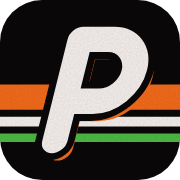
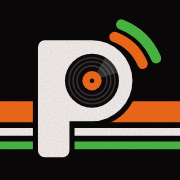
errores de espacios, tutorial mejorado, link facebook

diff --git a/public/index.html b/public/index.html
@@ -202,7 +202,7 @@
     <div class="seccion-titulo" id="titulo-viene"><h2>Lo que viene</h2><span onclick="ir('explorar')">Ver todas</span></div>
     <div class="lista-vertical" id="lista-viene" style="padding-bottom:26px; min-height:0;"></div>
     <footer class="pie-legal"><b class="notranslate" translate="no">PARTAZY</b>
-      <a class="pie-ig" href="https://www.instagram.com/partazy/" target="_blank" rel="noopener noreferrer" aria-label="PARTAZY en Instagram"><svg viewBox="0 0 24 24" fill="none" stroke="currentColor" stroke-width="2" aria-hidden="true"><rect x="3" y="3" width="18" height="18" rx="5"/><circle cx="12" cy="12" r="4"/><circle cx="17.5" cy="6.5" r="1" fill="currentColor" stroke="none"/></svg><span class="notranslate" translate="no">@partazy</span></a>
+      <div class="pie-redes"><a class="pie-ig" href="https://www.instagram.com/partazy/" target="_blank" rel="noopener noreferrer" aria-label="PARTAZY en Instagram"><svg viewBox="0 0 24 24" fill="none" stroke="currentColor" stroke-width="2" aria-hidden="true"><rect x="3" y="3" width="18" height="18" rx="5"/><circle cx="12" cy="12" r="4"/><circle cx="17.5" cy="6.5" r="1" fill="currentColor" stroke="none"/></svg><span class="notranslate" translate="no">@partazy</span></a><a class="pie-ig pie-fb" href="https://www.facebook.com/share/1EkgZmHUXT/" target="_blank" rel="noopener noreferrer" aria-label="PARTAZY en Facebook"><svg viewBox="0 0 24 24" fill="currentColor" aria-hidden="true"><path d="M13.5 21v-7.5h2.6l.4-3h-3V8.6c0-.9.3-1.5 1.5-1.5h1.6V4.4c-.3 0-1.2-.1-2.3-.1-2.3 0-3.8 1.4-3.8 3.9v2.3H7.9v3h2.6V21z"/></svg><span>Facebook</span></a></div>
       <div class="links"><button onclick="abrirTutorial()">Cómo usar Partazy</button><button onclick="abrirAyuda()">Ayuda</button><button onclick="abrirReferencias()">Colores</button><button onclick="verNormas()">Normas de la comunidad</button><button onclick="abrirTerminos()">Términos y condiciones</button><button onclick="abrirPrivacidad()">Privacidad</button></div>
       <div class="idiomas notranslate" translate="no" role="group" aria-label="Idioma"><button data-idioma="es">Español</button><button data-idioma="en">English</button><button data-idioma="pt">Português</button></div>
       <div>© <span class="anio-actual">2026</span> PARTAZY · Todos los derechos reservados.</div>
@@ -482,7 +482,7 @@ Ivo Paz +1"></textarea>
         <button class="btn btn-secundario" onclick="abrirMenuPerfil()"><svg width="16" height="16" viewBox="0 0 24 24" fill="none" stroke="currentColor" stroke-width="2.2" stroke-linecap="round" style="margin-right:6px;"><path d="M4 7h16M4 12h16M4 17h16"/></svg>Más opciones</button>
       </div>
       <div><footer class="pie-legal"><b class="notranslate" translate="no">PARTAZY</b>
-      <a class="pie-ig" href="https://www.instagram.com/partazy/" target="_blank" rel="noopener noreferrer" aria-label="PARTAZY en Instagram"><svg viewBox="0 0 24 24" fill="none" stroke="currentColor" stroke-width="2" aria-hidden="true"><rect x="3" y="3" width="18" height="18" rx="5"/><circle cx="12" cy="12" r="4"/><circle cx="17.5" cy="6.5" r="1" fill="currentColor" stroke="none"/></svg><span class="notranslate" translate="no">@partazy</span></a>
+      <div class="pie-redes"><a class="pie-ig" href="https://www.instagram.com/partazy/" target="_blank" rel="noopener noreferrer" aria-label="PARTAZY en Instagram"><svg viewBox="0 0 24 24" fill="none" stroke="currentColor" stroke-width="2" aria-hidden="true"><rect x="3" y="3" width="18" height="18" rx="5"/><circle cx="12" cy="12" r="4"/><circle cx="17.5" cy="6.5" r="1" fill="currentColor" stroke="none"/></svg><span class="notranslate" translate="no">@partazy</span></a><a class="pie-ig pie-fb" href="https://www.facebook.com/share/1EkgZmHUXT/" target="_blank" rel="noopener noreferrer" aria-label="PARTAZY en Facebook"><svg viewBox="0 0 24 24" fill="currentColor" aria-hidden="true"><path d="M13.5 21v-7.5h2.6l.4-3h-3V8.6c0-.9.3-1.5 1.5-1.5h1.6V4.4c-.3 0-1.2-.1-2.3-.1-2.3 0-3.8 1.4-3.8 3.9v2.3H7.9v3h2.6V21z"/></svg><span>Facebook</span></a></div>
       <div class="links"><button onclick="abrirTutorial()">Cómo usar Partazy</button><button onclick="abrirAyuda()">Ayuda</button><button onclick="abrirReferencias()">Colores</button><button onclick="verNormas()">Normas de la comunidad</button><button onclick="abrirTerminos()">Términos y condiciones</button><button onclick="abrirPrivacidad()">Privacidad</button></div>
       <div class="idiomas notranslate" translate="no" role="group" aria-label="Idioma"><button data-idioma="es">Español</button><button data-idioma="en">English</button><button data-idioma="pt">Português</button></div>
       <div>© <span class="anio-actual">2026</span> PARTAZY · Todos los derechos reservados.</div>
@@ -692,7 +692,7 @@ Ivo Paz +1"></textarea>
     </form>
     <div style="padding:0 20px 28px;"><button class="btn btn-secundario" onclick="abrirPrivacidad()">Política de privacidad</button></div>
     <footer class="pie-legal"><b class="notranslate" translate="no">PARTAZY</b>
-      <a class="pie-ig" href="https://www.instagram.com/partazy/" target="_blank" rel="noopener noreferrer" aria-label="PARTAZY en Instagram"><svg viewBox="0 0 24 24" fill="none" stroke="currentColor" stroke-width="2" aria-hidden="true"><rect x="3" y="3" width="18" height="18" rx="5"/><circle cx="12" cy="12" r="4"/><circle cx="17.5" cy="6.5" r="1" fill="currentColor" stroke="none"/></svg><span class="notranslate" translate="no">@partazy</span></a>
+      <div class="pie-redes"><a class="pie-ig" href="https://www.instagram.com/partazy/" target="_blank" rel="noopener noreferrer" aria-label="PARTAZY en Instagram"><svg viewBox="0 0 24 24" fill="none" stroke="currentColor" stroke-width="2" aria-hidden="true"><rect x="3" y="3" width="18" height="18" rx="5"/><circle cx="12" cy="12" r="4"/><circle cx="17.5" cy="6.5" r="1" fill="currentColor" stroke="none"/></svg><span class="notranslate" translate="no">@partazy</span></a><a class="pie-ig pie-fb" href="https://www.facebook.com/share/1EkgZmHUXT/" target="_blank" rel="noopener noreferrer" aria-label="PARTAZY en Facebook"><svg viewBox="0 0 24 24" fill="currentColor" aria-hidden="true"><path d="M13.5 21v-7.5h2.6l.4-3h-3V8.6c0-.9.3-1.5 1.5-1.5h1.6V4.4c-.3 0-1.2-.1-2.3-.1-2.3 0-3.8 1.4-3.8 3.9v2.3H7.9v3h2.6V21z"/></svg><span>Facebook</span></a></div>
       <div class="links"><button onclick="abrirTutorial()">Cómo usar Partazy</button><button onclick="abrirAyuda()">Ayuda</button><button onclick="abrirReferencias()">Colores</button><button onclick="verNormas()">Normas de la comunidad</button><button onclick="abrirTerminos()">Términos y condiciones</button><button onclick="abrirPrivacidad()">Privacidad</button></div>
       <div class="idiomas notranslate" translate="no" role="group" aria-label="Idioma"><button data-idioma="es">Español</button><button data-idioma="en">English</button><button data-idioma="pt">Português</button></div>
       <div>© <span class="anio-actual">2026</span> PARTAZY · Todos los derechos reservados.</div>
@@ -724,7 +724,7 @@ Ivo Paz +1"></textarea>
       <p>Se borran tu perfil, tu @usuario, tu foto, tu fecha de nacimiento, tus amistades, tus bloqueos, tus notificaciones, lo que compartiste con tus amigos y los eventos que organizaste sin otros confirmados. Tu nombre puede seguir apareciendo en la lista de eventos ajenos a los que confirmaste asistencia, porque esa lista es del organizador.</p>
     </div>
     <footer class="pie-legal"><b class="notranslate" translate="no">PARTAZY</b>
-      <a class="pie-ig" href="https://www.instagram.com/partazy/" target="_blank" rel="noopener noreferrer" aria-label="PARTAZY en Instagram"><svg viewBox="0 0 24 24" fill="none" stroke="currentColor" stroke-width="2" aria-hidden="true"><rect x="3" y="3" width="18" height="18" rx="5"/><circle cx="12" cy="12" r="4"/><circle cx="17.5" cy="6.5" r="1" fill="currentColor" stroke="none"/></svg><span class="notranslate" translate="no">@partazy</span></a>
+      <div class="pie-redes"><a class="pie-ig" href="https://www.instagram.com/partazy/" target="_blank" rel="noopener noreferrer" aria-label="PARTAZY en Instagram"><svg viewBox="0 0 24 24" fill="none" stroke="currentColor" stroke-width="2" aria-hidden="true"><rect x="3" y="3" width="18" height="18" rx="5"/><circle cx="12" cy="12" r="4"/><circle cx="17.5" cy="6.5" r="1" fill="currentColor" stroke="none"/></svg><span class="notranslate" translate="no">@partazy</span></a><a class="pie-ig pie-fb" href="https://www.facebook.com/share/1EkgZmHUXT/" target="_blank" rel="noopener noreferrer" aria-label="PARTAZY en Facebook"><svg viewBox="0 0 24 24" fill="currentColor" aria-hidden="true"><path d="M13.5 21v-7.5h2.6l.4-3h-3V8.6c0-.9.3-1.5 1.5-1.5h1.6V4.4c-.3 0-1.2-.1-2.3-.1-2.3 0-3.8 1.4-3.8 3.9v2.3H7.9v3h2.6V21z"/></svg><span>Facebook</span></a></div>
       <div class="links"><button onclick="abrirTutorial()">Cómo usar Partazy</button><button onclick="abrirAyuda()">Ayuda</button><button onclick="abrirReferencias()">Colores</button><button onclick="verNormas()">Normas de la comunidad</button><button onclick="abrirTerminos()">Términos y condiciones</button><button onclick="abrirPrivacidad()">Privacidad</button></div>
       <div class="idiomas notranslate" translate="no" role="group" aria-label="Idioma"><button data-idioma="es">Español</button><button data-idioma="en">English</button><button data-idioma="pt">Português</button></div>
       <div>© <span class="anio-actual">2026</span> PARTAZY · Todos los derechos reservados.</div>
@@ -893,7 +893,7 @@ Ivo Paz +1"></textarea>
       <p class="legal-meta">Fecha de última actualización: 15/10/2026</p>
     </div>
     <footer class="pie-legal"><b class="notranslate" translate="no">PARTAZY</b>
-      <a class="pie-ig" href="https://www.instagram.com/partazy/" target="_blank" rel="noopener noreferrer" aria-label="PARTAZY en Instagram"><svg viewBox="0 0 24 24" fill="none" stroke="currentColor" stroke-width="2" aria-hidden="true"><rect x="3" y="3" width="18" height="18" rx="5"/><circle cx="12" cy="12" r="4"/><circle cx="17.5" cy="6.5" r="1" fill="currentColor" stroke="none"/></svg><span class="notranslate" translate="no">@partazy</span></a>
+      <div class="pie-redes"><a class="pie-ig" href="https://www.instagram.com/partazy/" target="_blank" rel="noopener noreferrer" aria-label="PARTAZY en Instagram"><svg viewBox="0 0 24 24" fill="none" stroke="currentColor" stroke-width="2" aria-hidden="true"><rect x="3" y="3" width="18" height="18" rx="5"/><circle cx="12" cy="12" r="4"/><circle cx="17.5" cy="6.5" r="1" fill="currentColor" stroke="none"/></svg><span class="notranslate" translate="no">@partazy</span></a><a class="pie-ig pie-fb" href="https://www.facebook.com/share/1EkgZmHUXT/" target="_blank" rel="noopener noreferrer" aria-label="PARTAZY en Facebook"><svg viewBox="0 0 24 24" fill="currentColor" aria-hidden="true"><path d="M13.5 21v-7.5h2.6l.4-3h-3V8.6c0-.9.3-1.5 1.5-1.5h1.6V4.4c-.3 0-1.2-.1-2.3-.1-2.3 0-3.8 1.4-3.8 3.9v2.3H7.9v3h2.6V21z"/></svg><span>Facebook</span></a></div>
       <div class="links"><button onclick="abrirTutorial()">Cómo usar Partazy</button><button onclick="abrirAyuda()">Ayuda</button><button onclick="abrirReferencias()">Colores</button><button onclick="verNormas()">Normas de la comunidad</button><button onclick="abrirTerminos()">Términos y condiciones</button><button onclick="abrirPrivacidad()">Privacidad</button></div>
       <div class="idiomas notranslate" translate="no" role="group" aria-label="Idioma"><button data-idioma="es">Español</button><button data-idioma="en">English</button><button data-idioma="pt">Português</button></div>
       <div>© <span class="anio-actual">2026</span> PARTAZY · Todos los derechos reservados.</div>
@@ -966,7 +966,7 @@ Ivo Paz +1"></textarea>
       Perfil
     </button>
     <div class="nav-pie solo-escritorio">
-      <a class="pie-ig" href="https://www.instagram.com/partazy/" target="_blank" rel="noopener noreferrer" aria-label="PARTAZY en Instagram"><svg viewBox="0 0 24 24" fill="none" stroke="currentColor" stroke-width="2" aria-hidden="true"><rect x="3" y="3" width="18" height="18" rx="5"/><circle cx="12" cy="12" r="4"/><circle cx="17.5" cy="6.5" r="1" fill="currentColor" stroke="none"/></svg><span class="notranslate" translate="no">@partazy</span></a>
+      <div class="pie-redes"><a class="pie-ig" href="https://www.instagram.com/partazy/" target="_blank" rel="noopener noreferrer" aria-label="PARTAZY en Instagram"><svg viewBox="0 0 24 24" fill="none" stroke="currentColor" stroke-width="2" aria-hidden="true"><rect x="3" y="3" width="18" height="18" rx="5"/><circle cx="12" cy="12" r="4"/><circle cx="17.5" cy="6.5" r="1" fill="currentColor" stroke="none"/></svg><span class="notranslate" translate="no">@partazy</span></a><a class="pie-ig pie-fb" href="https://www.facebook.com/share/1EkgZmHUXT/" target="_blank" rel="noopener noreferrer" aria-label="PARTAZY en Facebook"><svg viewBox="0 0 24 24" fill="currentColor" aria-hidden="true"><path d="M13.5 21v-7.5h2.6l.4-3h-3V8.6c0-.9.3-1.5 1.5-1.5h1.6V4.4c-.3 0-1.2-.1-2.3-.1-2.3 0-3.8 1.4-3.8 3.9v2.3H7.9v3h2.6V21z"/></svg><span>Facebook</span></a></div>
       <div class="links"><button onclick="abrirTutorial()">Tutorial</button><button onclick="abrirAyuda()">Ayuda</button><button onclick="abrirTerminos()">Términos</button><button onclick="abrirPrivacidad()">Privacidad</button></div>
       <div class="idiomas notranslate" translate="no" role="group" aria-label="Idioma"><button data-idioma="es">ES</button><button data-idioma="en">EN</button><button data-idioma="pt">PT</button></div>
       <div>© <span class="anio-actual">2026</span> PARTAZY · Todos los derechos reservados</div>

diff --git a/public/js/app.js b/public/js/app.js
@@ -4467,22 +4467,19 @@ function cerrarReferencias(){ document.getElementById('modal-referencias').class
 
 // ---------- Tutorial de bienvenida ----------
 const LOGO_TUTO = `<div class="tuto-logo-wrap" aria-hidden="true">
-  <svg class="tuto-logo" viewBox="0 0 64 64" xmlns="http://www.w3.org/2000/svg">
-    <defs>
-      <filter id="grano-tuto"><feTurbulence type="fractalNoise" baseFrequency="1.6" numOctaves="2" seed="7"/><feColorMatrix values="0 0 0 0 0  0 0 0 0 0  0 0 0 0 0  0 0 0 .55 0"/><feComposite in2="SourceGraphic" operator="in"/></filter>
-      <clipPath id="marco-tuto"><rect width="64" height="64" rx="15"/></clipPath>
-    </defs>
-    <rect width="64" height="64" rx="15" fill="#0A0809"/>
-    <g clip-path="url(#marco-tuto)"><g transform="skewX(-14) translate(8 0)">
-      <rect class="raya r1" x="-12" y="30" width="90" height="9" fill="#F26A1B"/>
-      <rect class="raya r2" x="-12" y="41.5" width="90" height="3.5" fill="#F4EFEC"/>
-      <rect class="raya r3" x="-12" y="47.5" width="90" height="3" fill="#4CB944"/>
-      <path class="trazo" pathLength="100" d="M24 50V14h11a11 11 0 0 1 0 22H24" transform="translate(2.6 2.6)" fill="none" stroke="#F26A1B" stroke-width="9" stroke-linecap="round" stroke-linejoin="round"/>
-      <path class="trazo" pathLength="100" d="M24 50V14h11a11 11 0 0 1 0 22H24" fill="none" stroke="#0A0809" stroke-width="14" stroke-linecap="round" stroke-linejoin="round"/>
-      <path class="trazo" pathLength="100" d="M24 50V14h11a11 11 0 0 1 0 22H24" fill="none" stroke="#F4EFEC" stroke-width="9" stroke-linecap="round" stroke-linejoin="round"/>
-    </g></g>
-    <rect width="64" height="64" rx="15" fill="#fff" filter="url(#grano-tuto)" opacity=".16"/>
-  </svg>
+  <svg class="tuto-logo" xmlns="http://www.w3.org/2000/svg" viewBox="0 0 64 64"><defs><filter id="grano-tuto"><feTurbulence type="fractalNoise" baseFrequency="1.6" numOctaves="2" seed="7"/><feColorMatrix values="0 0 0 0 0  0 0 0 0 0  0 0 0 0 0  0 0 0 .55 0"/><feComposite in2="SourceGraphic" operator="in"/></filter><clipPath id="marco-tuto"><rect width="64" height="64" rx="15"/></clipPath></defs>
+<rect width="64" height="64" rx="15" fill="#0A0809"/><g><g clip-path="url(#marco-tuto)"><g transform="skewX(-14) translate(9 0)">
+<rect class="raya r1" x="-14" y="36" width="96" height="7.5" fill="#F26A1B"/>
+<rect class="raya r2" x="-14" y="45.5" width="96" height="2.8" fill="#F4EFEC"/>
+<rect class="raya r3" x="-14" y="50.3" width="96" height="2.8" fill="#4CB944"/></g></g>
+<g class="ico-p" transform="translate(5.5 9.5) scale(.8)">
+<path d="M10 9a3 3 0 0 1 3-3h21a18 18 0 0 1 0 36H24v13a3 3 0 0 1-3 3h-8a3 3 0 0 1-3-3z" fill="#F4EFEC" stroke="#0A0809" stroke-width="4.5" paint-order="stroke" stroke-linejoin="round"/>
+<g class="ico-disco"><circle cx="34" cy="24" r="13.6" fill="#F4EFEC"/><circle cx="34" cy="24" r="12" fill="#0d0b0c"/>
+<circle cx="34" cy="24" r="10.2" fill="none" stroke="#3a3335" stroke-width=".7"/><circle cx="34" cy="24" r="8.4" fill="none" stroke="#3a3335" stroke-width=".7"/><circle cx="34" cy="24" r="6.6" fill="none" stroke="#3a3335" stroke-width=".7"/>
+<path d="M34 24 L40 13.6 A12 12 0 0 1 45.4 20.3 Z" fill="#fff" opacity=".16"/><circle cx="34" cy="24" r="4.3" fill="#F26A1B"/><circle cx="34" cy="24" r="1" fill="#0d0b0c"/></g>
+<path class="ico-onda o1" d="M44 4.5a22 22 0 0 1 12.5 12" fill="none" stroke="#F26A1B" stroke-width="4.6" stroke-linecap="round"/>
+<path class="ico-onda o2" d="M47 -1a28 28 0 0 1 15.5 15" fill="none" stroke="#4CB944" stroke-width="4.6" stroke-linecap="round"/></g></g>
+<rect width="64" height="64" rx="15" fill="#fff" filter="url(#grano-tuto)" opacity=".16"/></svg>
   <span class="tuto-chispa c1">✦</span><span class="tuto-chispa c2">✦</span><span class="tuto-chispa c3">✦</span>
 </div>`;
 // ¿Se está viendo en compu (menú a la izquierda) o en celu (barra abajo)?
@@ -4495,17 +4492,17 @@ function pasosTutorial(){
   const dedo = '<span class="tm-dedo" aria-hidden="true"></span>';
   return [
     { logo: true, t: nombre ? `¡Hola, ${esc(nombre)}!` : '¡Bienvenido/a!',
-      p: 'Partazy es para encontrar <b>fiestas, previas y boliches</b>, ver a dónde van tus amigos y anotarte. Son 5 pasos cortitos.' },
+      p: 'Partazy es para encontrar <b>planes cerca tuyo</b>: fiestas, previas, recitales, charlas, talleres, ferias, partidos... Ver a dónde van tus amigos y anotarte. Son 5 pasos cortitos.' },
     { t: 'Encontrá un plan',
-      p: `Arriba en <b>Inicio</b> está lo de esta noche y la semana. Para buscar algo puntual, usá el buscador o tocá un filtro.`,
+      p: `En <b>Inicio</b> tenés lo de hoy y <b>Para vos</b>, armado con tus gustos. Filtrá por tipo (fiestas, charlas, deportes...) o buscá algo puntual.`,
       dibujo: `<div class="tm tm-buscar">
-        <div class="tm-barra"><svg viewBox="0 0 24 24" fill="none" stroke="currentColor" stroke-width="2.2"><circle cx="11" cy="11" r="7"/><path d="m20 20-3.5-3.5"/></svg><span class="tm-tipeo">cachengue</span></div>
-        <div class="tm-chips"><i class="on">Hoy</i><i>Cerca tuyo</i><i>Gratis</i><i>Electrónica</i></div></div>` },
+        <div class="tm-barra"><svg viewBox="0 0 24 24" fill="none" stroke="currentColor" stroke-width="2.2"><circle cx="11" cy="11" r="7"/><path d="m20 20-3.5-3.5"/></svg><span class="tm-tipeo">recital</span></div>
+        <div class="tm-chips"><i>Hoy</i><i class="on">Para vos 🎧</i><i>Charlas</i><i>Deportes</i></div></div>` },
     { t: 'Anotate en un toque',
-      p: `Abrí cualquier evento y tocá <b>Confirmar asistencia</b> (o <b>Reservar</b> si es pago). Tu entrada queda en <b>Mis entradas</b> 🎟, ${compu ? 'en el menú de la izquierda' : 'el ícono del ticket arriba'}.`,
+      p: `Abrí un evento y tocá <b>Confirmar asistencia</b> (o <b>Reservar</b> si es pago: ahí ves a quién pagarle y copiás el alias). Algunos tienen <b>fecha límite</b> para anotarse. Tu entrada queda en <b>Mis entradas</b> 🎟, ${compu ? 'en el menú de la izquierda' : 'el ícono del ticket arriba'}.`,
       dibujo: `<div class="tm tm-evento">
         <div class="tm-foto"></div>
-        <div class="tm-info"><small>FIESTA · SÁB 23:30</small><b>Noche de prueba</b><span><i class="punto-ambiente amb-verde"></i>Hay lugar</span></div>
+        <div class="tm-info"><small>CHARLA · SÁB 18:00</small><b>Charla de prueba</b><span><i class="punto-ambiente amb-verde"></i>Hay lugar</span></div>
         <div class="tm-boton">Confirmar asistencia${dedo}</div></div>` },
     { t: 'El punto te dice cómo viene', p: 'Todos los eventos tienen un punto de color:',
       extra: `<div class="tuto-mini">
@@ -4513,15 +4510,15 @@ function pasosTutorial(){
         <div><span class="punto-ambiente amb-amarillo"></span><b>Amarillo</b> se está llenando</div>
         <div><span class="punto-ambiente amb-rojo"></span><b>Rojo</b> lleno o cancelado</div>
         <div><span class="punto-ambiente amb-verde amb-vivo"></span><b>Si late</b> está pasando ahora</div></div>` },
-    { t: 'Mirá a dónde van tus amigos',
-      p: `Agregalos con el ícono de <b>personas</b> ${compu ? '(arriba a la derecha)' : '(arriba)'}. En cada evento vas a ver quién va, y podés <b>compartirlo</b> con un comentario para armar el plan.`,
+    { t: 'Mirá qué hacen tus amigos',
+      p: `Agregalos con el ícono de <b>personas</b> ${compu ? '(arriba a la derecha)' : '(arriba)'}. En <b>Tus amigos</b>, en Inicio, ves quién está en un evento <b>ahora</b>, quién va hoy y quién organiza. Compartí eventos con un comentario y <b>@arrobá</b> a quien quieras.`,
       dibujo: `<div class="tm tm-amigos">
         <div class="tm-caras"><i>SG</i><i>IP</i><i>MR</i></div>
-        <div class="tm-txt"><b>Sofía</b> e <b>Ivo</b> van</div>
-        <div class="tm-nota">¡Vamos a esta! 🔥 <span>— Sofía</span></div></div>` },
-    { t: 'Armá tu previa o fiesta',
-      p: `Tocá el <b>+ naranja</b> ${compu ? '(<b>Crear evento</b>, en el menú de la izquierda)' : 'abajo en el medio'}, completá los datos y listo. Si es privada, elegís quién entra y la dirección solo la ven los aprobados.`,
-      dibujo: `<div class="tm tm-crear"><div class="tm-mas">+${dedo}</div><div class="tm-crear-txt"><b>Crear evento</b><span>Previa · Fiesta · Boliche</span></div></div>`,
+        <div class="tm-txt">🎤 <b>Sofía</b> está ahora en un recital</div>
+        <div class="tm-nota">¡Vamos a esta! 🔥 <b>@ivo</b> <span>— Sofía</span></div></div>` },
+    { t: 'Armá tu evento',
+      p: `Tocá el <b>+ naranja</b> ${compu ? '(<b>Crear evento</b>, en el menú de la izquierda)' : 'abajo en el medio'}. Son 3 pasos: <b>lo básico</b>, <b>qué tipo de evento</b> (fiesta, charla, deporte, feria...) y <b>los detalles</b>, que cambian según el tipo. Si es privado, elegís quién entra y la dirección solo la ven los aprobados.`,
+      dibujo: `<div class="tm tm-crear"><div class="tm-mas">+${dedo}</div><div class="tm-crear-txt"><b>Crear evento</b><span>1 Lo básico · 2 Tipo · 3 Detalles</span></div></div>`,
       pie: `¿Te perdiste? Volvé a ver esto desde <b>Perfil → ☰ → Tutorial</b>.` }
   ];
 }

diff --git a/public/css/app.css b/public/css/app.css
@@ -1308,7 +1308,8 @@ html, body{overflow-x:hidden;}
 }
 /* Compu: el fondo aparece recién al bajar (así no queda una franja ancha arriba) */
 @media (min-width:900px){
-  .screen:not(#pantalla-home) > .topbar{transition:background-color .25s var(--ease), box-shadow .25s var(--ease);}
+  /* sin transición: el "fondo ancho" se pone y se saca de una (si se animaba, al subir quedaba un recuadro gris un instante) */
+  .screen:not(#pantalla-home) > .topbar{transition:none;}
   .screen.con-scroll:not(#pantalla-home) > .topbar{background:#141214; box-shadow:0 0 0 100vmax #141214, 0 1px 0 100vmax var(--gris-linea); clip-path:inset(-40px -100vmax -1px -100vmax);}
 }
 
@@ -1507,3 +1508,18 @@ input[type=date]::-webkit-date-and-time-value, input[type=time]::-webkit-date-an
 /* Pago: a quién le pagás */
 .pago-destacado .pago-como em{display:block; font-style:normal; font-size:11.5px; color:var(--gris); margin-top:3px;}
 @media (min-width:421px){ .pago-destacado.con-titular .pago-monto{grid-row:span 2;} .pago-destacado .pago-como{grid-column:2;} }
+
+/* ===== Ronda 17/10 (2) ===== */
+/* La P va pegada a "artazy" (la caja del ícono tiene aire a la derecha) */
+.lv-ico{margin-right:-.2em;}
+/* Instagram y Facebook juntos en el pie */
+.pie-redes{display:flex; flex-wrap:wrap; justify-content:center; gap:8px; margin:0 auto;}
+.pie-redes .pie-ig{margin:0;}
+.pie-fb:hover{border-color:#1877F2;}
+.nav-pie .pie-redes{justify-content:flex-start; margin:0 0 4px;}
+.nav-pie .pie-redes .pie-ig{align-self:auto;}
+/* Logo del tutorial: el disco gira y las ondas laten */
+.tuto-logo .ico-disco{transform-box:view-box; transform-origin:34px 24px; animation:lv-gira 1.4s cubic-bezier(.3,.6,.4,1) .4s 1 both;}
+.tuto-logo .ico-onda{animation:lv-late 1.4s ease-in-out 1s infinite;}
+.tuto-logo .ico-onda.o2{animation-delay:1.2s;}
+@media (prefers-reduced-motion: reduce){ .tuto-logo .ico-disco, .tuto-logo .ico-onda{animation:none !important;} }
